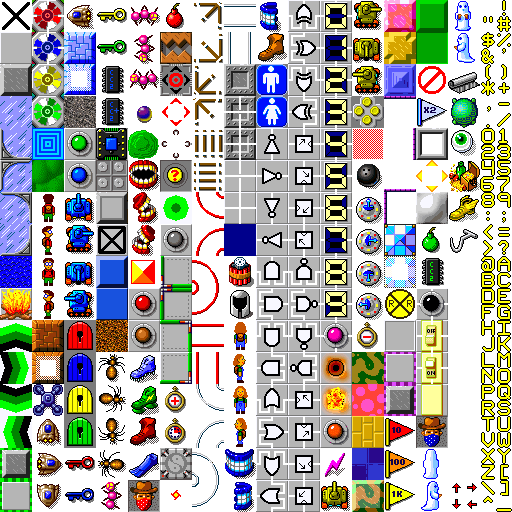
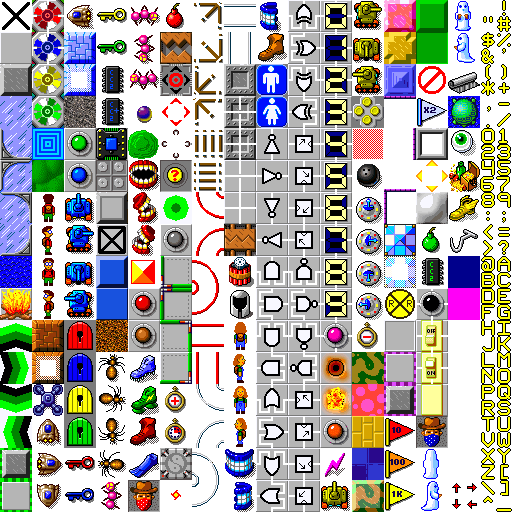
CC2Edit graphics updates:
* Render open traps (used in CC2LP1)
* Merge turtle with water layer
* Add an active wire fill graphic for future use
* Fix misalignment of transparent ice block

diff --git a/lib/libcc2/Tileset.cpp b/lib/libcc2/Tileset.cpp
@@ -441,9 +441,9 @@ void CC2ETileset::drawAt(QPainter& painter, int x, int y, const cc2::Tile* tile,
     case cc2::Tile::RedBomb:
         painter.drawPixmap(x, y, m_gfx[cc2::G_RedBomb]);
         break;
-    //case cc2::Tile::UNUSED_41:
-    //    painter.drawPixmap(x, y, m_gfx[cc2::G_Trap]);
-    //    break;
+    case cc2::Tile::Trap_Open:
+        painter.drawPixmap(x, y, m_gfx[cc2::G_Trap_Open]);
+        break;
     case cc2::Tile::Trap:
         painter.drawPixmap(x, y, m_gfx[cc2::G_Trap]);
         break;
@@ -956,8 +956,6 @@ void CC2ETileset::drawAt(QPainter& painter, int x, int y, const cc2::Tile* tile,
         painter.drawPixmap(x, y, m_gfx[cc2::G_SteelFoil]);
         break;
     case cc2::Tile::Turtle:
-        // TODO: Maybe we don't need a masked version of the turtle...
-        painter.drawPixmap(x, y, m_gfx[cc2::G_Water]);
         painter.drawPixmap(x, y, m_gfx[cc2::G_Turtle]);
         break;
     case cc2::Tile::Eye:
@@ -1264,6 +1262,8 @@ QString CC2ETileset::baseName(cc2::Tile::Type type)
         return tr("Tool Thief");
     case cc2::Tile::RedBomb:
         return tr("Red Bomb");
+    case cc2::Tile::Trap_Open:
+        return tr("Trap - Open");
     case cc2::Tile::Trap:
         return tr("Trap");
     case cc2::Tile::CC1_Cloner:

diff --git a/lib/libcc2/Tileset.h b/lib/libcc2/Tileset.h
@@ -55,7 +55,7 @@ enum GraphicIndex {
     G_ActiveTRail_NE, G_ActiveTRail_SE, G_ActiveTRail_SW,
     G_ActiveTRail_NW, G_ActiveTRail_WE, G_ActiveTRail_NS,
     G_SteelWall, G_SteelWall_Wire2, G_SteelWall_Wire4, G_Floor_Wire2,
-    G_Floor_Wire4, G_WireFill, G_TimeBomb, G_Helmet,
+    G_Floor_Wire4, G_Trap_Open, G_TimeBomb, G_Helmet,
     G_Player2_N, G_Player2_E, G_Player2_S, G_Player2_W, G_TimidTeeth_S,
     G_TimidTeeth_E, G_TimidTeeth_W, G_HikingBoots, G_MaleOnly, G_FemaleOnly,
     G_Inverter_N, G_Inverter_E, G_Inverter_S, G_Inverter_W,
@@ -81,6 +81,7 @@ enum GraphicIndex {
     G_GreenBomb, G_GreenChip, G_RevLogicButton, G_Switch_Off, G_Switch_On,
     G_Switch_Base, G_KeyThief, G_Ghost_N, G_Ghost_E, G_Ghost_S, G_Ghost_W,
     G_SteelFoil, G_Turtle, G_Eye, G_Bribe, G_SpeedShoes, G_Hook,
+    G_WireFill, G_LiveWireFill,
 
     G_GlyphArrows = 0xef, G_GlyphAscii_Base, G_GlyphAscii_End = 0xff,
 

diff --git a/lib/libcc2/Map.h b/lib/libcc2/Map.h
@@ -180,7 +180,7 @@ public:
         Chip, ExtraChip, Socket, PopUpWall, AppearingWall, InvisWall,
         BlueWall, BlueFloor, Dirt, Ant, Centipede, Ball, Blob,
         AngryTeeth, FireBox, CloneButton, TrapButton, IceCleats, MagnoShoes,
-        FireShoes, Flippers, ToolThief, RedBomb, UNUSED_41, Trap,
+        FireShoes, Flippers, ToolThief, RedBomb, Trap_Open, Trap,
         CC1_Cloner, Cloner, Clue, Force_Rand, AreaCtlButton,
         RevolvDoor_SW, RevolvDoor_NW, RevolvDoor_NE, RevolvDoor_SE,
         TimeBonus, ToggleClock, Transformer, TrainTracks, SteelWall,
